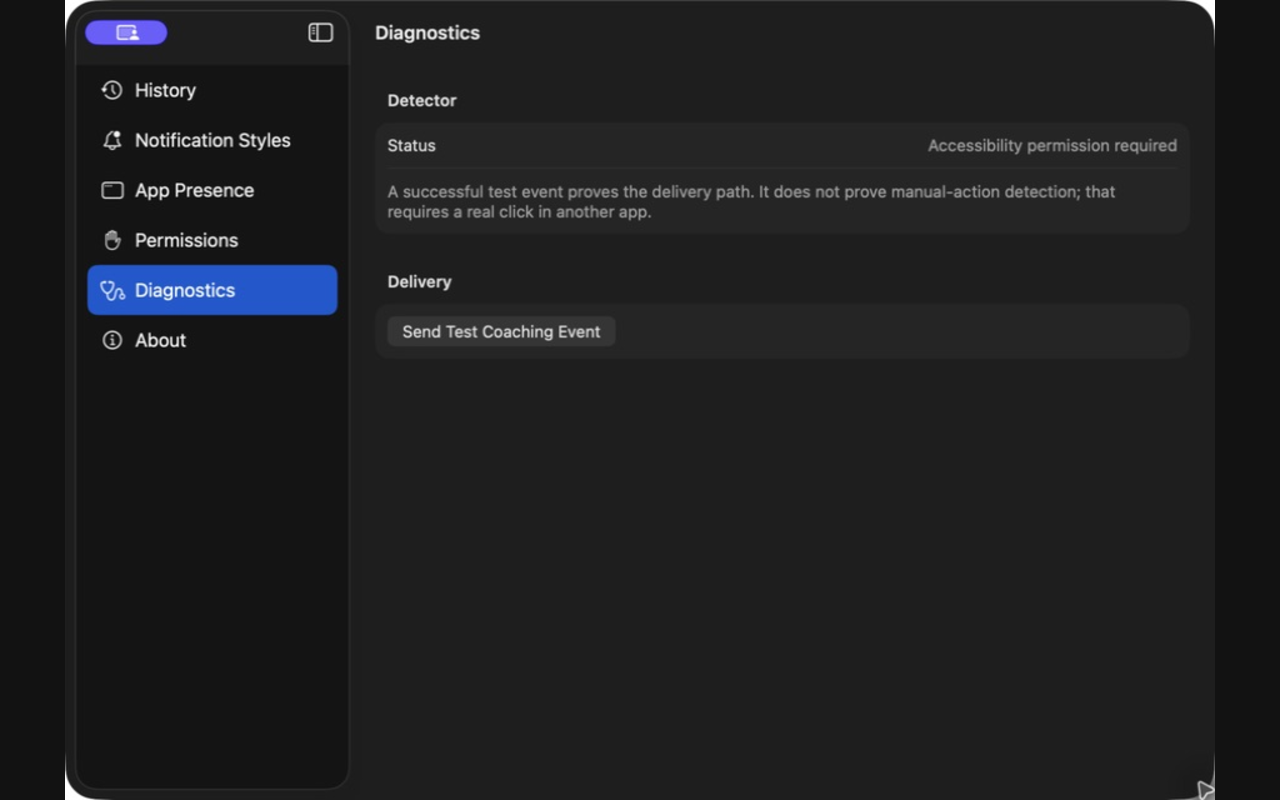
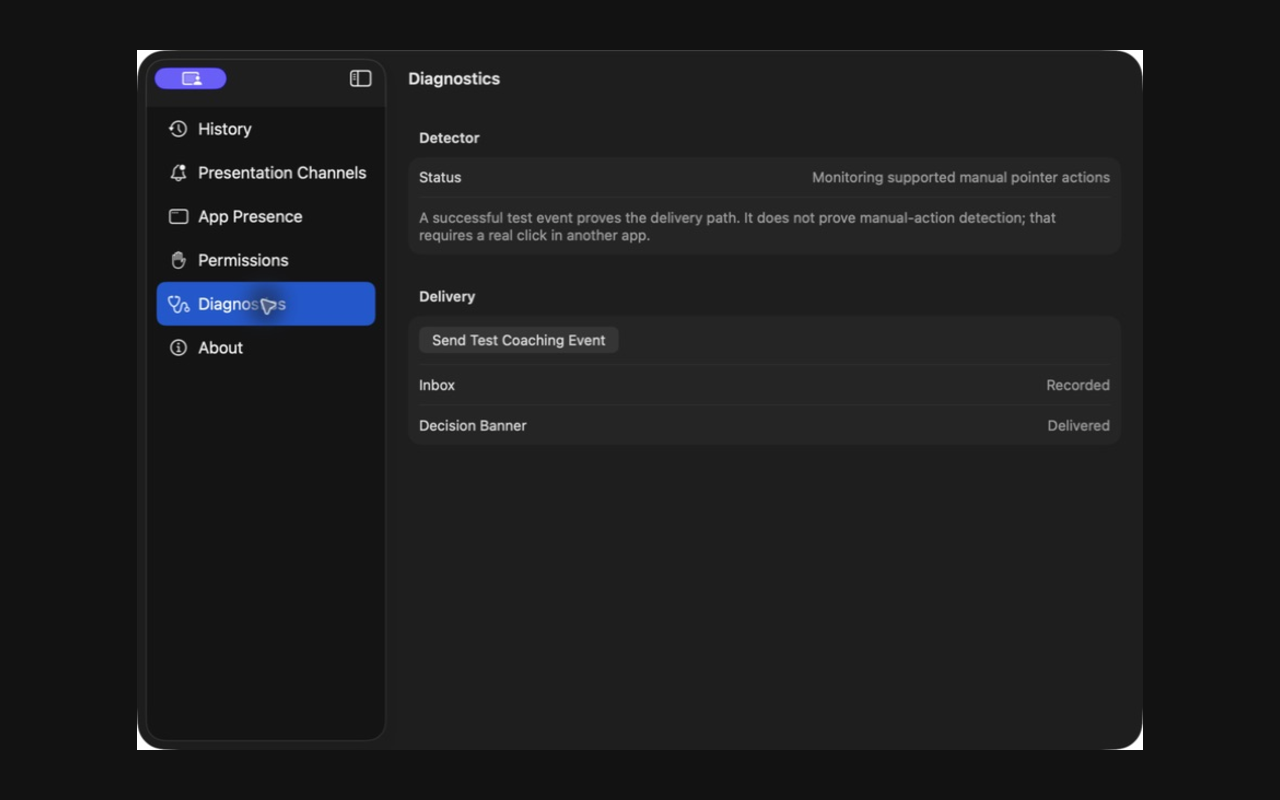
fix: strengthen release branding evidence

diff --git a/ShortcutCoachTests/ShortcutCoachTests.swift b/ShortcutCoachTests/ShortcutCoachTests.swift
@@ -22,6 +22,10 @@ private final class SpyAdapter: ChannelDelivering {
 
 private enum TestError: Error { case expected }
 
+private final class StatusItemActionTarget: NSObject {
+    @objc func activate(_ sender: NSStatusBarButton) {}
+}
+
 @MainActor
 final class ShortcutCoachTests: XCTestCase {
     func testDeliveryRecordsOnceAndFansOutToSelectedChannels() async {
@@ -126,15 +130,32 @@ final class ShortcutCoachTests: XCTestCase {
         }
     }
 
-    func testSERPProductIdentityConfiguresTheBrandedStatusItem() {
-        XCTAssertEqual(ProductIdentity.bundleIdentifier, "com.serp.shortcutcoach")
+    func testSERPBrandingConfiguresTheActualStatusBarButtonContract() {
         XCTAssertEqual(
             ProductIdentity.legacyBundleIdentifiers,
             ["com.serpcompany.shortcutcoach", "co.serp.shortcutcoach"]
         )
+        let button = NSStatusBarButton(frame: NSRect(x: 0, y: 0, width: 24, height: 24))
+        let target = StatusItemActionTarget()
+
+        StatusItemBranding.configure(
+            button,
+            target: target,
+            action: #selector(StatusItemActionTarget.activate(_:))
+        )
+
         XCTAssertEqual(ProductIdentity.statusItemImageName, "SERPMenuBarMark")
-        XCTAssertEqual(ProductIdentity.accessibilityName, "Shortcut Coach")
-        XCTAssertNotNil(NSImage(named: ProductIdentity.statusItemImageName))
+        XCTAssertNotNil(button.image)
+        XCTAssertEqual(button.image?.isTemplate, true)
+        XCTAssertEqual(button.image?.size, NSSize(width: 17, height: 17))
+        // NSStatusBarButton normalizes .imageOnly to .imageOverlaps. The empty
+        // title is the observable contract that leaves only the image visible.
+        XCTAssertEqual(button.imagePosition, .imageOverlaps)
+        XCTAssertEqual(button.title, "")
+        XCTAssertEqual(button.toolTip, "Shortcut Coach")
+        XCTAssertEqual(button.accessibilityLabel(), "Shortcut Coach")
+        XCTAssertTrue(button.target === target)
+        XCTAssertEqual(button.action, #selector(StatusItemActionTarget.activate(_:)))
     }
 
     func testEveryPresentationChannelHasStableCopyAndIdentity() {

diff --git a/ShortcutCoach/Views/SettingsRootView.swift b/ShortcutCoach/Views/SettingsRootView.swift
@@ -2,7 +2,7 @@ import SwiftUI
 
 private enum SettingsSection: String, CaseIterable, Identifiable {
     case inbox = "History"
-    case notifications = "Notification Styles"
+    case notifications = "Presentation Channels"
     case presence = "App Presence"
     case permissions = "Permissions"
     case diagnostics = "Diagnostics"
@@ -37,7 +37,7 @@ struct SettingsRootView: View {
             Group {
                 switch selection ?? .notifications {
                 case .inbox: HistorySettingsView()
-                case .notifications: NotificationStylesView()
+                case .notifications: PresentationChannelsView()
                 case .presence: AppPresenceSettingsView()
                 case .permissions: PermissionSettingsView()
                 case .diagnostics: DiagnosticsView()
@@ -82,13 +82,13 @@ private struct AboutView: View {
     }
 }
 
-private struct NotificationStylesView: View {
+private struct PresentationChannelsView: View {
     @Environment(AppModel.self) private var model
 
     var body: some View {
         Form {
             Section {
-                Label("Every coaching event is saved to the inbox first. Enable any combination of additional presentation styles.", systemImage: "tray.full")
+                Label("Every coaching event is saved to the inbox first. Enable any combination of additional presentation channels.", systemImage: "tray.full")
                     .foregroundStyle(.secondary)
             }
             Section("Presentation channels") {
@@ -119,7 +119,7 @@ private struct NotificationStylesView: View {
             }
         }
         .formStyle(.grouped)
-        .navigationTitle("Notification Styles")
+        .navigationTitle("Presentation Channels")
     }
 }
 

diff --git a/ShortcutCoach/Infrastructure/ProductIdentity.swift b/ShortcutCoach/Infrastructure/ProductIdentity.swift
@@ -1,13 +1,30 @@
-import Foundation
+import AppKit
 
 enum ProductIdentity {
     static let productName = "Shortcut Coach"
     static let accessibilityName = "Shortcut Coach"
-    static let bundleIdentifier = "com.serp.shortcutcoach"
     static let legacyBundleIdentifiers = [
         "com.serpcompany.shortcutcoach",
         "co.serp.shortcutcoach"
     ]
     static let statusItemImageName = "SERPMenuBarMark"
     static let inAppBrandImageName = "SERPArrow"
+}
+
+enum StatusItemBranding {
+    static func configure(_ button: NSStatusBarButton, target: AnyObject, action: Selector) {
+        guard let image = NSImage(named: ProductIdentity.statusItemImageName) else {
+            assertionFailure("Missing SERP menu-bar image")
+            return
+        }
+        image.isTemplate = true
+        image.size = NSSize(width: 17, height: 17)
+        button.image = image
+        button.imagePosition = .imageOnly
+        button.title = ""
+        button.toolTip = ProductIdentity.productName
+        button.setAccessibilityLabel(ProductIdentity.accessibilityName)
+        button.target = target
+        button.action = action
+    }
 }

diff --git a/ShortcutCoach/App/NativeStatusItemController.swift b/ShortcutCoach/App/NativeStatusItemController.swift
@@ -14,16 +14,11 @@ final class NativeStatusItemController: NSObject {
         let item = NSStatusBar.system.statusItem(withLength: NSStatusItem.squareLength)
         item.isVisible = true
         if let button = item.button {
-            let image = NSImage(named: ProductIdentity.statusItemImageName)
-            image?.isTemplate = true
-            image?.size = NSSize(width: 17, height: 17)
-            button.image = image
-            button.imagePosition = .imageOnly
-            button.title = ""
-            button.toolTip = ProductIdentity.productName
-            button.setAccessibilityLabel(ProductIdentity.accessibilityName)
-            button.target = self
-            button.action = #selector(togglePopover(_:))
+            StatusItemBranding.configure(
+                button,
+                target: self,
+                action: #selector(togglePopover(_:))
+            )
         }
 
         popover.behavior = .transient

diff --git a/release/app-store/sandbox-feasibility.md b/release/app-store/sandbox-feasibility.md
@@ -16,7 +16,12 @@ Mac App Store submission is blocked until the exact sandboxed Release artifact p
 1. Remove prior test copies of the `com.serp.shortcutcoach` build from LaunchServices.
 2. Reset Accessibility permission only for `com.serp.shortcutcoach`.
 3. Install and launch the exact sandboxed Release artifact.
-4. Confirm Dock presence, SERP arrow menu-bar presence, Coaching Inbox, Settings, and About.
+4. Complete the feasible visual/UI checks before permission:
+   - SERP app icon renders in Finder and in the Dock.
+   - SERP template status item is visible and clickable in both light and dark appearance.
+   - Clicking the status item opens the branded Coaching Inbox.
+   - Main-window navigation reaches History, Presentation Channels, App Presence, Permissions, Diagnostics, and About without clipping.
+   - Preview Top-center Shelf and Decision Banner through their real Presentation Channels buttons.
 5. Grant Accessibility permission through the system prompt and confirm Diagnostics reports monitoring.
 6. Physically exercise these proven release gates:
    - Finder → File → New Finder Window → exactly one durable `⌘N` event.
@@ -44,6 +49,8 @@ failed to do a bootstrap look-up: xpc_error=[159: Unknown error: 159]
 The same clean request from the unsandboxed Developer ID control build connected to `com.apple.universalaccessAuthWarn` without the bootstrap failure. This isolates the failed permission flow to App Sandbox on this machine. Apple documents that `AXIsProcessTrustedWithOptions` should asynchronously inform an untrusted user when `kAXTrustedCheckOptionPrompt` is true; the sandboxed artifact did not reach that behavior.
 
 Because the clean Accessibility permission flow fails, the required Chrome/Finder/window-control physical checks cannot begin. The Mac App Store gate therefore fails before upload. Do not create or upload a Mac App Store build from this branch. Use the documented Developer ID + notarization configuration unless Apple grants an App-Store-acceptable capability or the sandbox behavior is proven fixed in a future macOS/toolchain build.
+
+Feasible UI evidence passed for the complete Settings window/navigation, Finder and Dock icons, dark-appearance menu-bar symbol, clickable Coaching Inbox, and real Top-center Shelf/Decision Banner previews. A real light-appearance menu-bar capture was not taken because that requires changing the maintainer's global macOS appearance setting; the AppKit regression test instead verifies that the actual status-button image is configured as a template. Light-appearance visual acceptance remains an explicit human check.
 
 Primary references:
 

diff --git a/release/evidence/README.md b/release/evidence/README.md
@@ -1,0 +1,21 @@
+# Release UI evidence index
+
+All images are privacy-cropped from the exact sandboxed Release build `com.serp.shortcutcoach` version `1.0.0 (1)`. Presentation preview images were opened through the real Settings preview buttons; they are synthetic coaching events by product design and are not claimed as manual-action detector evidence.
+
+| Evidence | Result |
+| --- | --- |
+| [`menu-bar-dark.png`](menu-bar-dark.png) | Real SERP template symbol visible in the dark macOS menu bar |
+| [`dock-app-icon.png`](dock-app-icon.png) | Real generated app icon visible in the auto-hidden Dock |
+| [`finder-app-icon.png`](finder-app-icon.png) | Real built Release app icon visible in Finder |
+| [`preview-top-center-shelf.png`](preview-top-center-shelf.png) | Real Top-center Shelf preview |
+| [`preview-decision-banner.png`](preview-decision-banner.png) | Real Decision Banner preview |
+| [`../screenshots/review/01-coaching-inbox.png`](../screenshots/review/01-coaching-inbox.png) | Real status-item press opens the branded Coaching Inbox |
+| [`../screenshots/review/02-presentation-channels.png`](../screenshots/review/02-presentation-channels.png) | Complete Presentation Channels window |
+| [`../screenshots/review/03-permissions.png`](../screenshots/review/03-permissions.png) | Complete clean-install permission state |
+| [`../screenshots/review/04-diagnostics.png`](../screenshots/review/04-diagnostics.png) | Complete detector diagnostics state |
+| [`../screenshots/review/05-about.png`](../screenshots/review/05-about.png) | Complete SERP About view |
+
+Not captured:
+
+- Light-appearance menu-bar rendering requires changing the maintainer's global macOS Appearance setting. The actual `NSStatusBarButton` contract is covered by a test that verifies its loaded SERP image is a template; light visual acceptance remains manual.
+- No live-coaching image is included because the sandboxed Accessibility gate fails before physical detector testing. It must not be substituted with a Settings preview.

diff --git a/release/screenshots/README.md b/release/screenshots/README.md
@@ -7,7 +7,7 @@ Required review set:
 | ID | Surface | Required state |
 | --- | --- | --- |
 | `01-coaching-inbox` | Menu-bar popover | SERP mark, durable history, unread state |
-| `02-notification-styles` | Main Settings window | Real selectable channel list and previews |
+| `02-presentation-channels` | Main Settings window | Real selectable presentation-channel list and previews |
 | `03-permissions` | Main Settings window | Real Accessibility permission state |
 | `04-diagnostics` | Main Settings window | Real detector and delivery diagnostics |
 | `05-about` | Main Settings window | SERP mark, Shortcut Coach name, version |
@@ -17,9 +17,10 @@ Static UI captures may be reviewed before the sandbox gate. The live-coaching sc
 
 Current truthful sandboxed Release-build captures:
 
-- `review/02-notification-styles.png`
+- `review/01-coaching-inbox.png`
+- `review/02-presentation-channels.png`
 - `review/03-permissions.png` — intentionally shows the clean-install `Required` state
 - `review/04-diagnostics.png` — intentionally records the unpassed Accessibility gate
 - `review/05-about.png`
 
-Run `scripts/generate-app-store-screenshots.sh` to place these real captures without distortion on an opaque 1280×800 canvas under `app-store/`. `asc screenshots validate --device-type APP_DESKTOP` validates that output. Inbox and live-coaching captures remain blocked on the physical Accessibility test and must not be manufactured from synthetic state.
+Run `scripts/generate-app-store-screenshots.sh` to place these real captures without distortion and with visible margins around the complete window/popover on an opaque 1280×800 canvas under `app-store/`. `asc screenshots validate --device-type APP_DESKTOP` validates that output. Live-coaching capture remains blocked on the physical Accessibility test and must not be manufactured from synthetic state.

diff --git a/docs/verification.md b/docs/verification.md
@@ -52,7 +52,7 @@ Do not convert an implemented or synthetic status into a broad working claim.
 - The complete suite passes 28 tests.
 - A universal sandboxed Release build passes strict code-sign and static entitlement inspection.
 - The Mac App Store gate is blocked: after a clean Accessibility reset, the sandboxed Release cannot open Apple's Accessibility authorization warning service, while the otherwise equivalent unsandboxed control can. See [`release/evidence/sandbox-permission-gate.md`](../release/evidence/sandbox-permission-gate.md).
-- Canonical metadata and four truthful static Release screenshots validate locally. Inbox and live-coaching Store screenshots remain blocked until the physical detector gate passes.
+- Canonical metadata and five truthful static Release screenshots validate locally. Dark menu-bar, Dock/Finder icon, Inbox access, Settings navigation, and two real presentation previews are indexed under `release/evidence`. Light menu-bar appearance remains a human check because changing the maintainer's global Appearance setting was outside the automated capture; live coaching remains blocked until the physical detector gate passes.
 - A hardened, unsandboxed Developer ID fallback configuration builds and passes strict code-sign verification; notarization remains a primary-agent release step.
 
 ## Commands

diff --git a/release/evidence/sandbox-permission-gate.md b/release/evidence/sandbox-permission-gate.md
@@ -34,3 +34,5 @@ The Debug control used the same source, team, bundle ID, and request call but no
 ## Conclusion
 
 This test does not claim that every possible sandbox entitlement request is impossible. It proves that the public-API, sandboxed Release configuration currently specified for Shortcut Coach cannot complete its required clean Accessibility permission flow. Under issue #19's stop condition, App Store upload and submission are blocked. The release fallback is the hardened, unsandboxed Developer ID configuration under `release/developer-id/`.
+
+Before reaching the permission blocker, the same artifact passed the feasible brand/UI checks documented in [`README.md`](README.md): complete Settings navigation, dark menu-bar symbol, status-item Inbox access, Finder and Dock icons, and two real presentation-channel previews. Light menu-bar appearance remains a human check because automated capture did not change the maintainer's global Appearance setting.

diff --git a/README.md b/README.md
@@ -9,8 +9,8 @@ This repository is the canonical Shortcut Coach codebase and starting point for 
 - Detects macOS menu-item clicks, a conservative set of Chrome controls, standard window controls, and verified Finder-to-Trash drags after Accessibility permission is granted.
 - Records every coaching event in durable local history.
 - Shows an always-available menu-bar coaching inbox with unread state.
-- Provides ten selectable notification channels and per-channel previews.
-- Includes a full settings window for history, notification styles, app presence, permissions, and diagnostics.
+- Provides ten selectable presentation channels and per-channel previews.
+- Includes a full settings window for history, presentation channels, app presence, permissions, and diagnostics.
 - Appears in the Dock and Cmd-Tab by default; one setting hides both while retaining the menu-bar item.
 - Uses one delivery path for both detected and synthetic test events.
 

diff --git a/release/app-store/release-details.md b/release/app-store/release-details.md
@@ -51,7 +51,7 @@ To review:
 4. In Finder, click File → New Finder Window. Shortcut Coach should save and present “Try ⌘N next time.”
 5. In Chrome, physically click the New Tab `+` button. Shortcut Coach should save and present “Try ⌘T next time.”
 6. Click the SERP arrow in the menu bar to review the Coaching Inbox.
-7. Settings → Notification Styles can preview each presentation channel without requiring a manual action.
+7. Settings → Presentation Channels can preview each presentation channel without requiring a manual action.
 
 No external hardware, purchase, account, or network connection is required.
 
